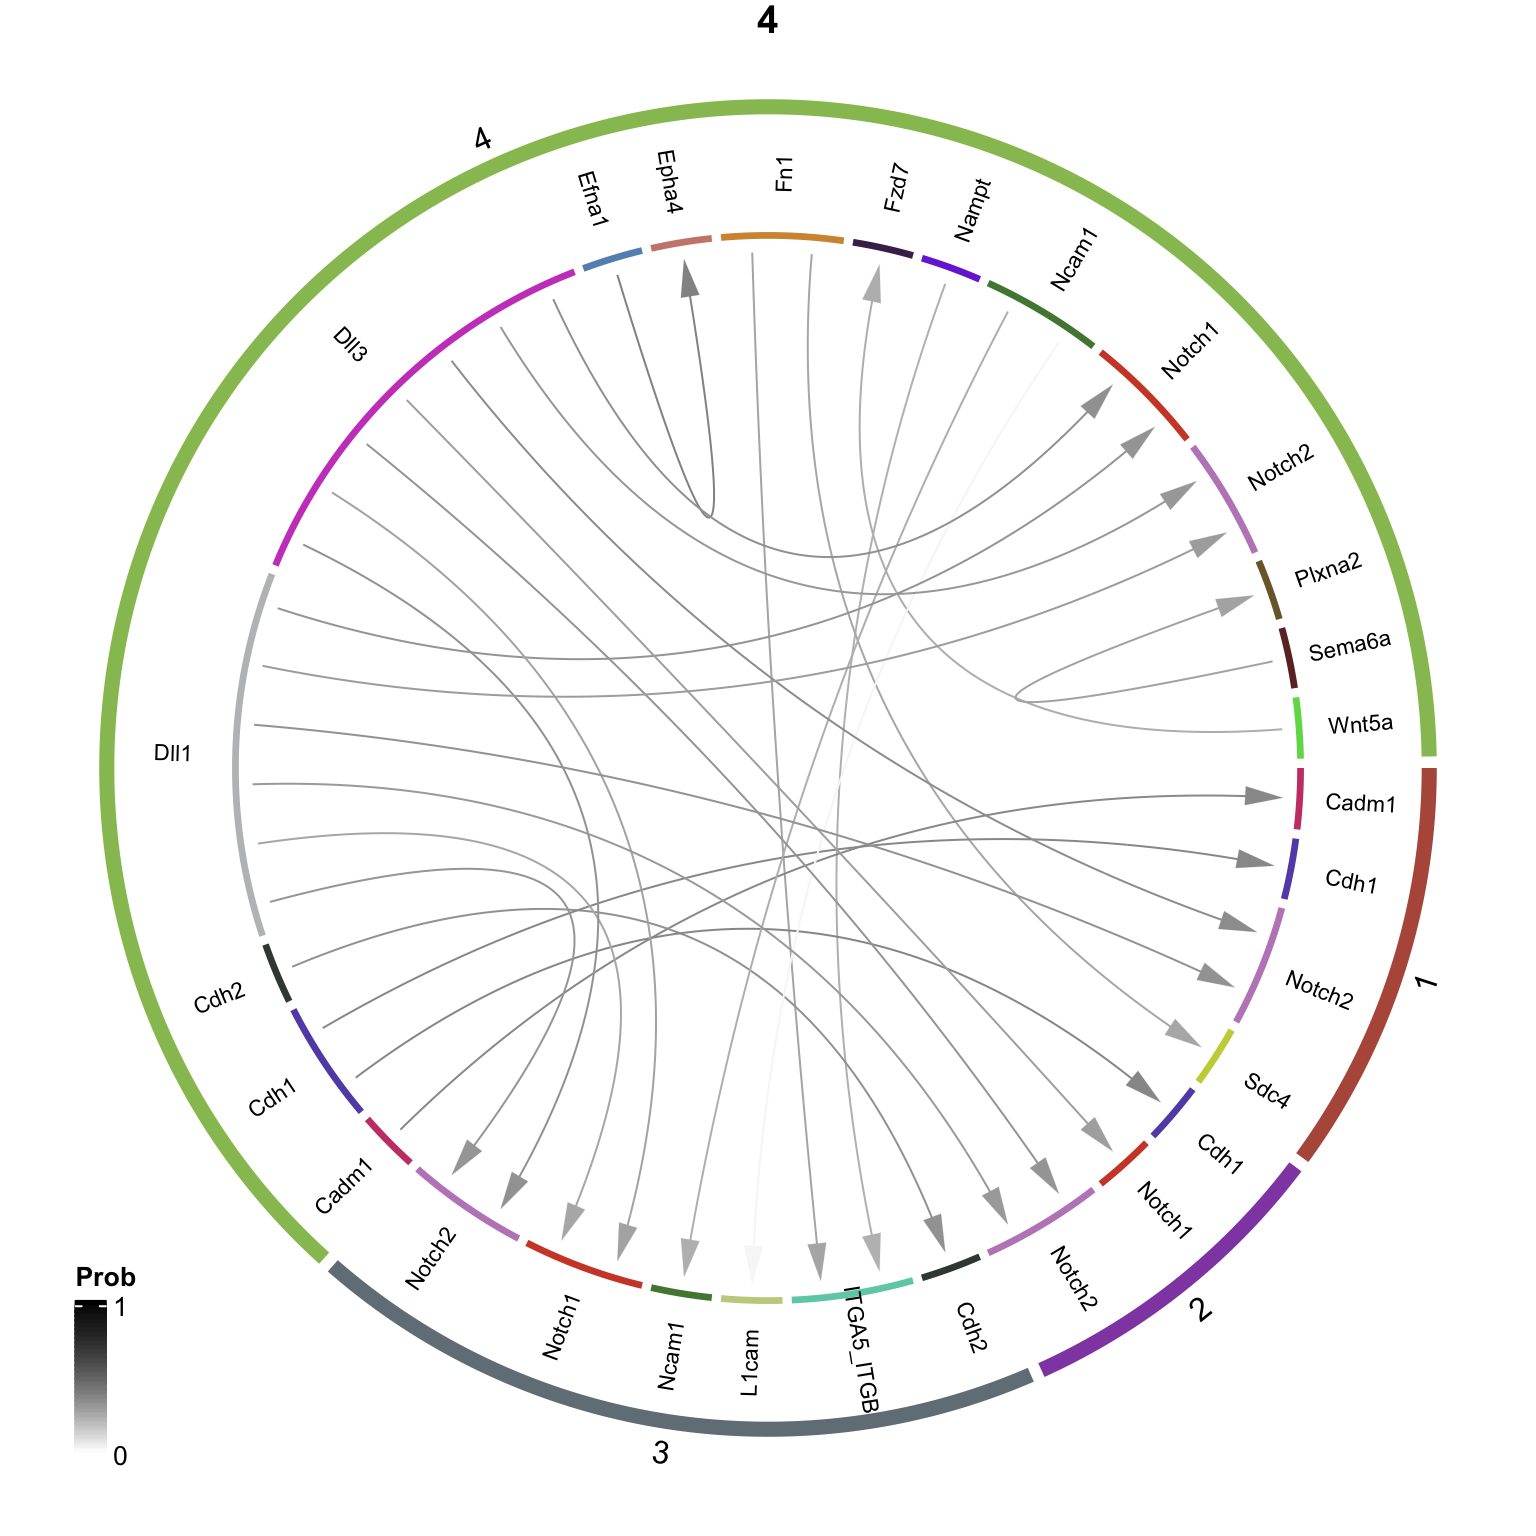
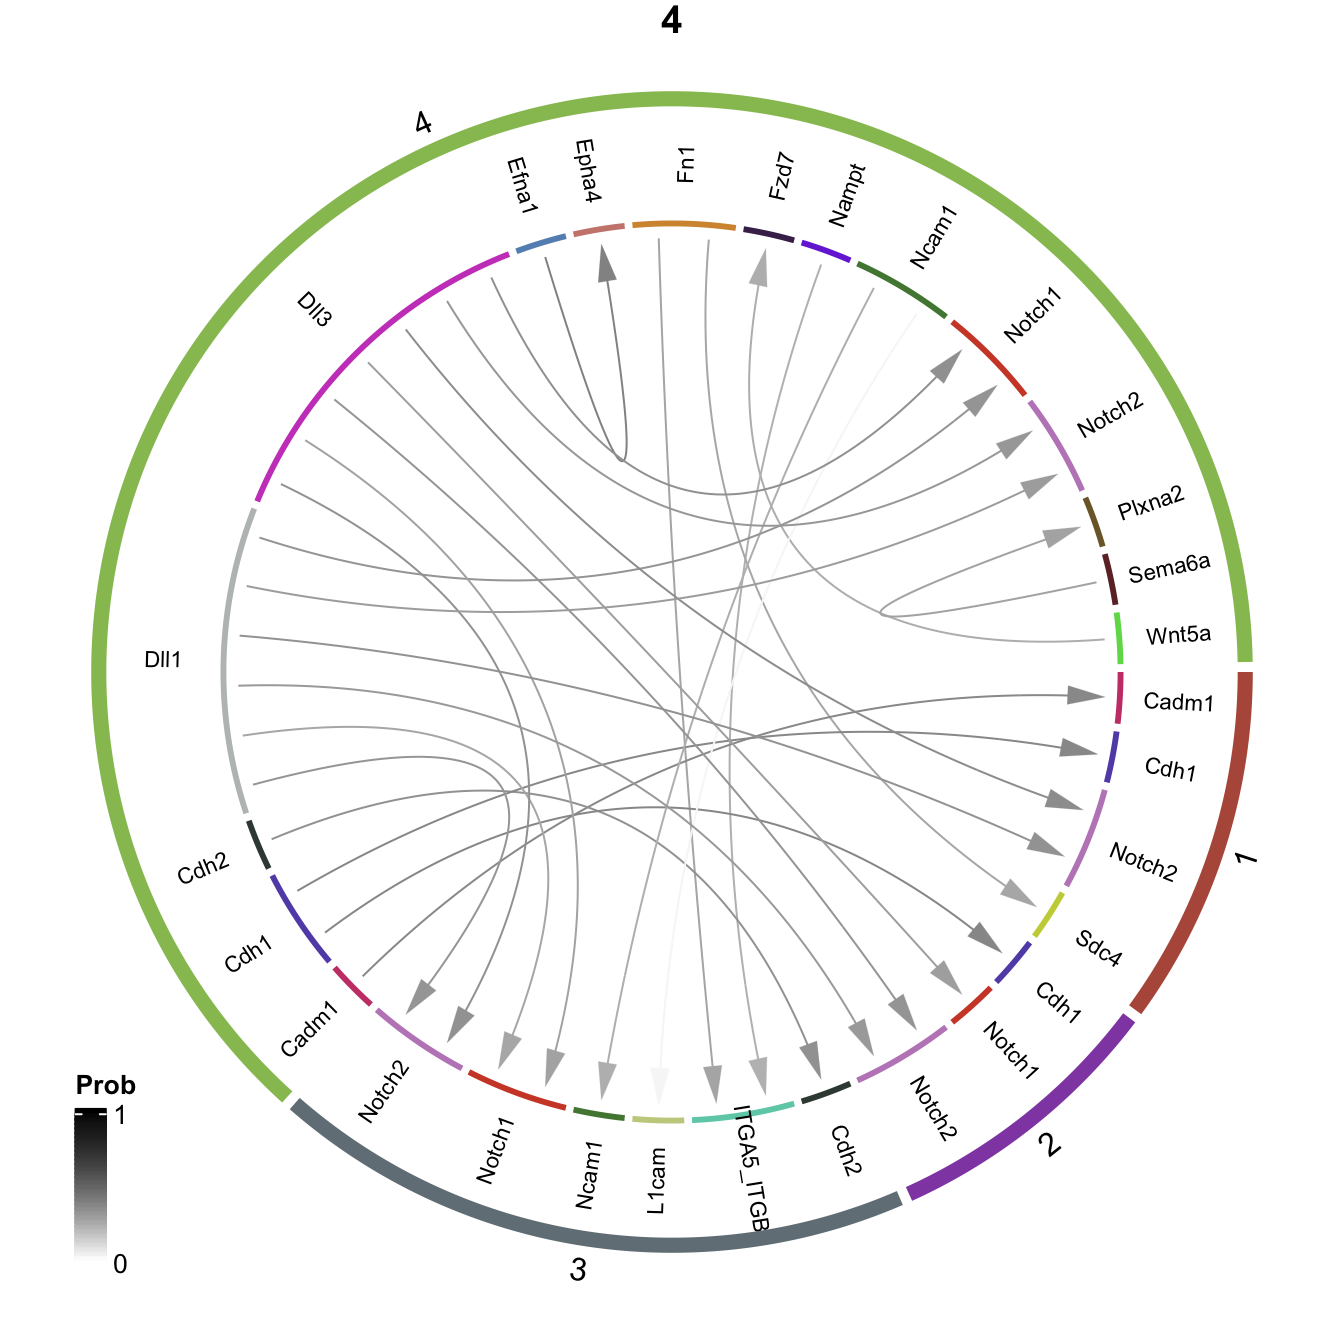
Build

diff --git a/docs/cellchat.html b/docs/cellchat.html
@@ -591,16 +591,16 @@ This reproducible <a href="http://rmarkdown.rstudio.com">R Markdown</a> analysis
 <div class="panel panel-default">
 <div class="panel-heading">
 <p class="panel-title">
-<a data-toggle="collapse" data-parent="#workflowr-checks" href="#strongRepositoryversionstrongahrefhttpsgithubcomjma1991LPMPEHFBtree507a4d5265dc115133edcac12fd139a30346dea7targetblank507a4d5a"> <span class="glyphicon glyphicon-ok text-success" aria-hidden="true"></span> <strong>Repository version:</strong> <a href="https://github.com/jma1991/LPMP_EHF_B/tree/507a4d5265dc115133edcac12fd139a30346dea7" target="_blank">507a4d5</a> </a>
+<a data-toggle="collapse" data-parent="#workflowr-checks" href="#strongRepositoryversionstrongahrefhttpsgithubcomjma1991LPMPEHFBtree3d3f26bfe93fa4d12ac2da7283d216d41fd06e64targetblank3d3f26ba"> <span class="glyphicon glyphicon-ok text-success" aria-hidden="true"></span> <strong>Repository version:</strong> <a href="https://github.com/jma1991/LPMP_EHF_B/tree/3d3f26bfe93fa4d12ac2da7283d216d41fd06e64" target="_blank">3d3f26b</a> </a>
 </p>
 </div>
[2 lines of base64/hex data omitted]
 <div class="panel-body">
 <p>
 Great! You are using Git for version control. Tracking code development and connecting the code version to the results is critical for reproducibility.
 </p>
 <p>
-The results in this page were generated with repository version <a href="https://github.com/jma1991/LPMP_EHF_B/tree/507a4d5265dc115133edcac12fd139a30346dea7" target="_blank">507a4d5</a>. See the <em>Past versions</em> tab to see a history of the changes made to the R Markdown and HTML files.
+The results in this page were generated with repository version <a href="https://github.com/jma1991/LPMP_EHF_B/tree/3d3f26bfe93fa4d12ac2da7283d216d41fd06e64" target="_blank">3d3f26b</a>. See the <em>Past versions</em> tab to see a history of the changes made to the R Markdown and HTML files.
 </p>
 <p>
 Note that you need to be careful to ensure that all relevant files for the analysis have been committed to Git prior to generating the results (you can use <code>wflow_publish</code> or <code>wflow_git_commit</code>). workflowr only checks the R Markdown file, but you know if there are other scripts or data files that it depends on. Below is the status of the Git repository when the results were generated:
@@ -671,6 +671,40 @@ Message
 </tr>
 </thead>
 <tbody>
+<tr>
+<td>
+Rmd
+</td>
+<td>
+<a href="https://github.com/jma1991/LPMP_EHF_B/blob/3d3f26bfe93fa4d12ac2da7283d216d41fd06e64/analysis/cellchat.Rmd" target="_blank">3d3f26b</a>
+</td>
+<td>
+James Ashmore
+</td>
+<td>
+2021-04-28
+</td>
+<td>
+Build
+</td>
+</tr>
+<tr>
+<td>
+html
+</td>
+<td>
+<a href="https://rawcdn.githack.com/jma1991/LPMP_EHF_B/3d3f26bfe93fa4d12ac2da7283d216d41fd06e64/docs/cellchat.html" target="_blank">3d3f26b</a>
+</td>
+<td>
+James Ashmore
+</td>
+<td>
+2021-04-28
+</td>
+<td>
+Build
+</td>
+</tr>
 <tr>
 <td>
 Rmd
@@ -1077,19 +1111,167 @@ for (i in ids) {
 }</code></pre>
 <div id="section" class="section level4">
 <h4>1</h4>
-<p><img src="figure/cellchat.Rmd/unnamed-chunk-20-1.png" width="768" style="display: block; margin: auto;" /></p>
+<p><img src="figure/cellchat.Rmd/unnamed-chunk-20-1.png" width="672" style="display: block; margin: auto;" /></p>
+<p>
+<button type="button" class="btn btn-default btn-xs btn-workflowr btn-workflowr-fig" data-toggle="collapse" data-target="#fig-unnamed-chunk-20-1">
+Past versions of unnamed-chunk-20-1.png
+</button>
+</p>
+<div id="fig-unnamed-chunk-20-1" class="collapse">
+<div class="table-responsive">
+<table class="table table-condensed table-hover">
+<thead>
+<tr>
+<th>
+Version
+</th>
+<th>
+Author
+</th>
+<th>
+Date
+</th>
+</tr>
+</thead>
+<tbody>
+<tr>
+<td>
+<a href="https://github.com/jma1991/LPMP_EHF_B/blob/507a4d5265dc115133edcac12fd139a30346dea7/docs/figure/cellchat.Rmd/unnamed-chunk-20-1.png" target="_blank">507a4d5</a>
+</td>
+<td>
+James Ashmore
+</td>
+<td>
+2021-04-28
+</td>
+</tr>
+</tbody>
+</table>
+</div>
+</div>
 </div>
 <div id="section-1" class="section level4">
 <h4>2</h4>
-<p><img src="figure/cellchat.Rmd/unnamed-chunk-20-2.png" width="768" style="display: block; margin: auto;" /></p>
+<p><img src="figure/cellchat.Rmd/unnamed-chunk-20-2.png" width="672" style="display: block; margin: auto;" /></p>
+<p>
+<button type="button" class="btn btn-default btn-xs btn-workflowr btn-workflowr-fig" data-toggle="collapse" data-target="#fig-unnamed-chunk-20-2">
+Past versions of unnamed-chunk-20-2.png
+</button>
+</p>
+<div id="fig-unnamed-chunk-20-2" class="collapse">
+<div class="table-responsive">
+<table class="table table-condensed table-hover">
+<thead>
+<tr>
+<th>
+Version
+</th>
+<th>
+Author
+</th>
+<th>
+Date
+</th>
+</tr>
+</thead>
+<tbody>
+<tr>
+<td>
+<a href="https://github.com/jma1991/LPMP_EHF_B/blob/507a4d5265dc115133edcac12fd139a30346dea7/docs/figure/cellchat.Rmd/unnamed-chunk-20-2.png" target="_blank">507a4d5</a>
+</td>
+<td>
+James Ashmore
+</td>
+<td>
+2021-04-28
+</td>
+</tr>
+</tbody>
+</table>
+</div>
+</div>
 </div>
 <div id="section-2" class="section level4">
 <h4>3</h4>
-<p><img src="figure/cellchat.Rmd/unnamed-chunk-20-3.png" width="768" style="display: block; margin: auto;" /></p>
+<p><img src="figure/cellchat.Rmd/unnamed-chunk-20-3.png" width="672" style="display: block; margin: auto;" /></p>
+<p>
+<button type="button" class="btn btn-default btn-xs btn-workflowr btn-workflowr-fig" data-toggle="collapse" data-target="#fig-unnamed-chunk-20-3">
+Past versions of unnamed-chunk-20-3.png
+</button>
+</p>
+<div id="fig-unnamed-chunk-20-3" class="collapse">
+<div class="table-responsive">
+<table class="table table-condensed table-hover">
+<thead>
+<tr>
+<th>
+Version
+</th>
+<th>
+Author
+</th>
+<th>
+Date
+</th>
+</tr>
+</thead>
+<tbody>
+<tr>
+<td>
+<a href="https://github.com/jma1991/LPMP_EHF_B/blob/507a4d5265dc115133edcac12fd139a30346dea7/docs/figure/cellchat.Rmd/unnamed-chunk-20-3.png" target="_blank">507a4d5</a>
+</td>
+<td>
+James Ashmore
+</td>
+<td>
+2021-04-28
+</td>
+</tr>
+</tbody>
+</table>
+</div>
+</div>
 </div>
 <div id="section-3" class="section level4">
 <h4>4</h4>
-<p><img src="figure/cellchat.Rmd/unnamed-chunk-20-4.png" width="768" style="display: block; margin: auto;" /></p>
+<p><img src="figure/cellchat.Rmd/unnamed-chunk-20-4.png" width="672" style="display: block; margin: auto;" /></p>
+<p>
+<button type="button" class="btn btn-default btn-xs btn-workflowr btn-workflowr-fig" data-toggle="collapse" data-target="#fig-unnamed-chunk-20-4">
+Past versions of unnamed-chunk-20-4.png
+</button>
+</p>
+<div id="fig-unnamed-chunk-20-4" class="collapse">
+<div class="table-responsive">
+<table class="table table-condensed table-hover">
+<thead>
+<tr>
+<th>
+Version
+</th>
+<th>
+Author
+</th>
+<th>
+Date
+</th>
+</tr>
+</thead>
+<tbody>
+<tr>
+<td>
+<a href="https://github.com/jma1991/LPMP_EHF_B/blob/507a4d5265dc115133edcac12fd139a30346dea7/docs/figure/cellchat.Rmd/unnamed-chunk-20-4.png" target="_blank">507a4d5</a>
+</td>
+<td>
+James Ashmore
+</td>
+<td>
+2021-04-28
+</td>
+</tr>
+</tbody>
+</table>
+</div>
+</div>
 <!-- ## Target -->
 <!-- ```{r} -->
 <!-- chordDiagram(x = subset(net, source == 1), title = "Source: 1") -->
